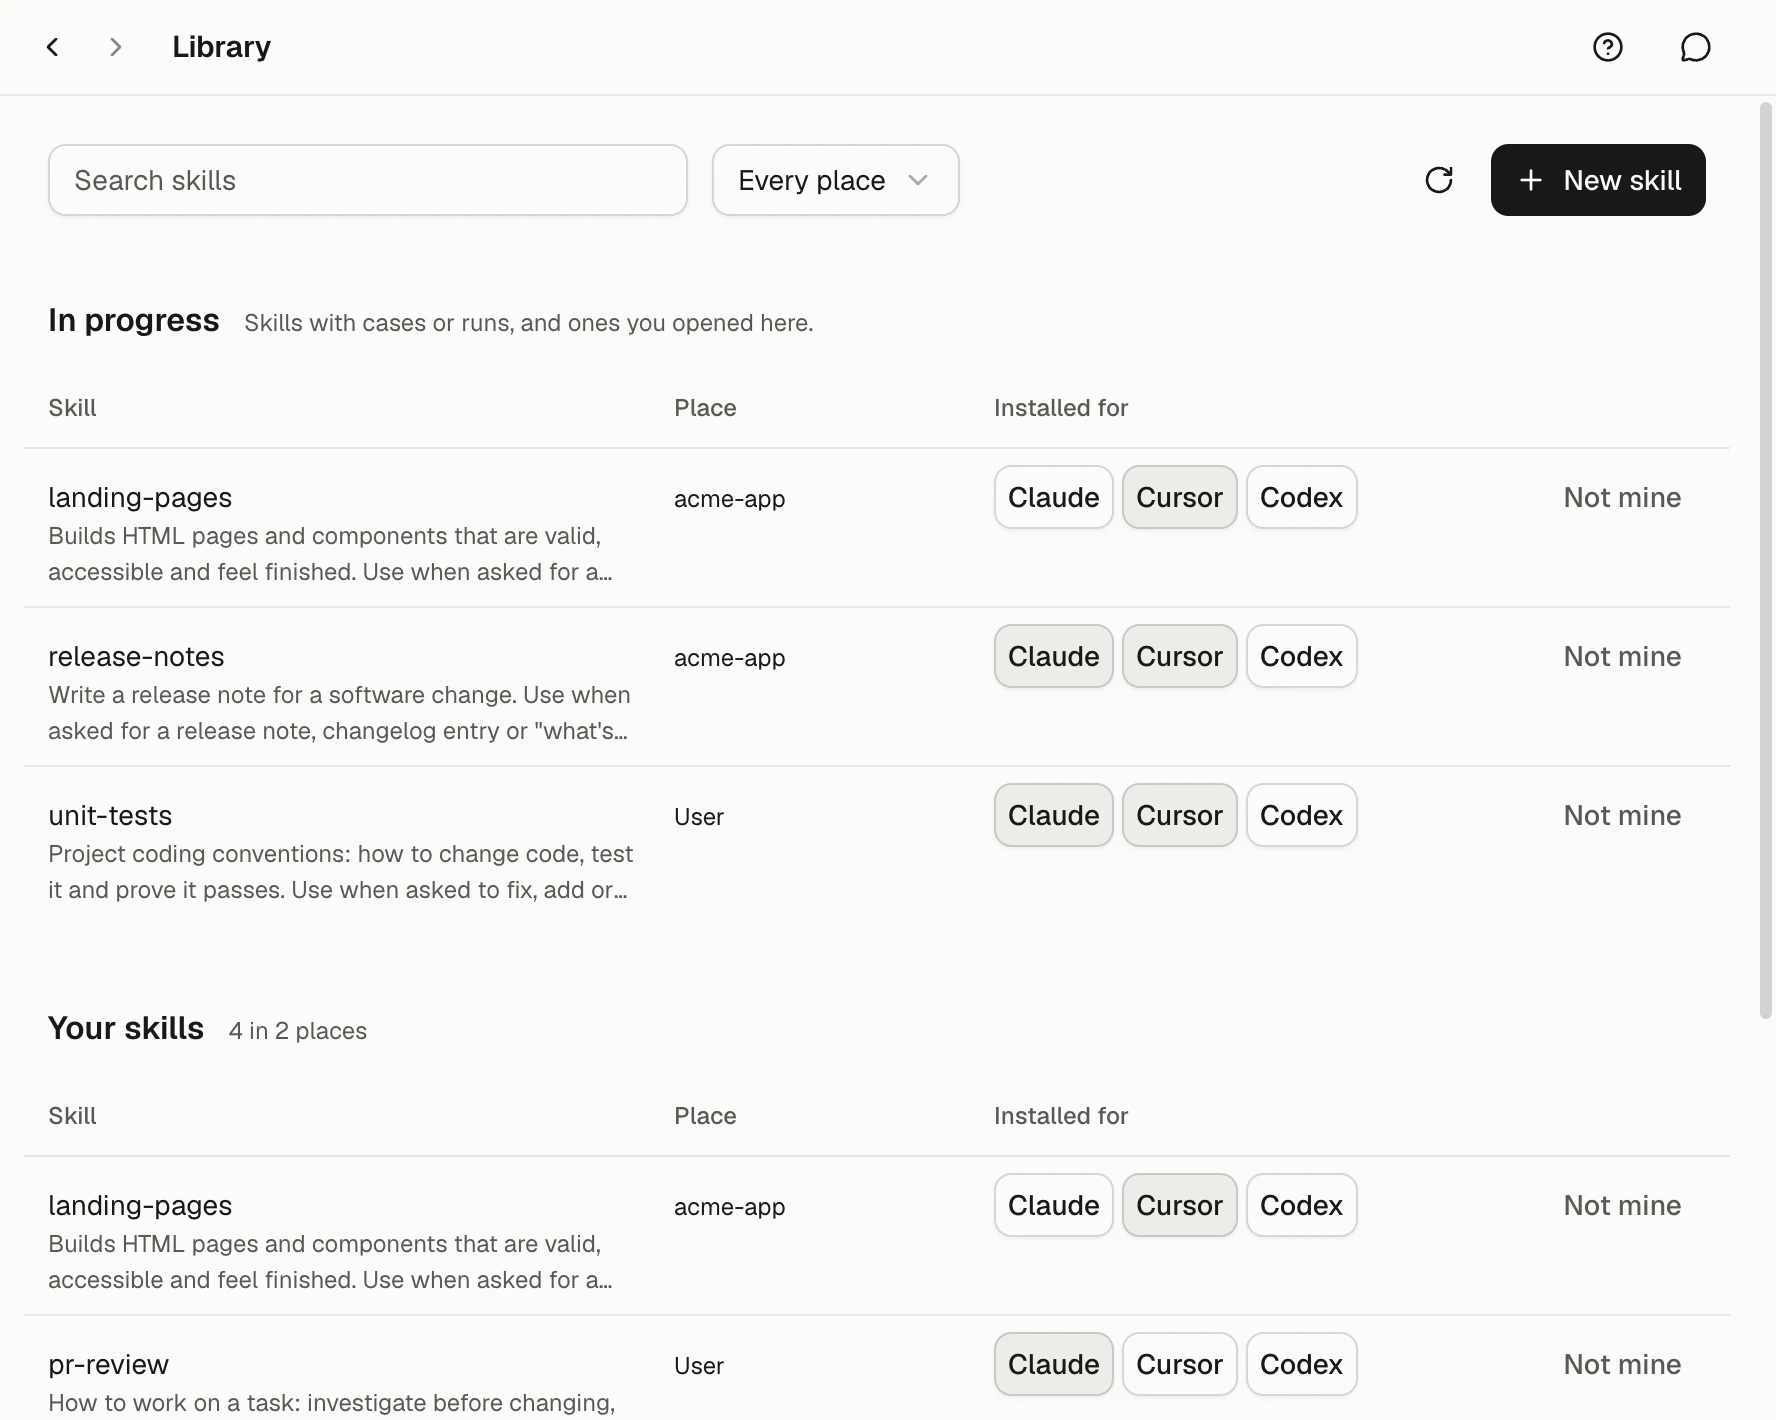
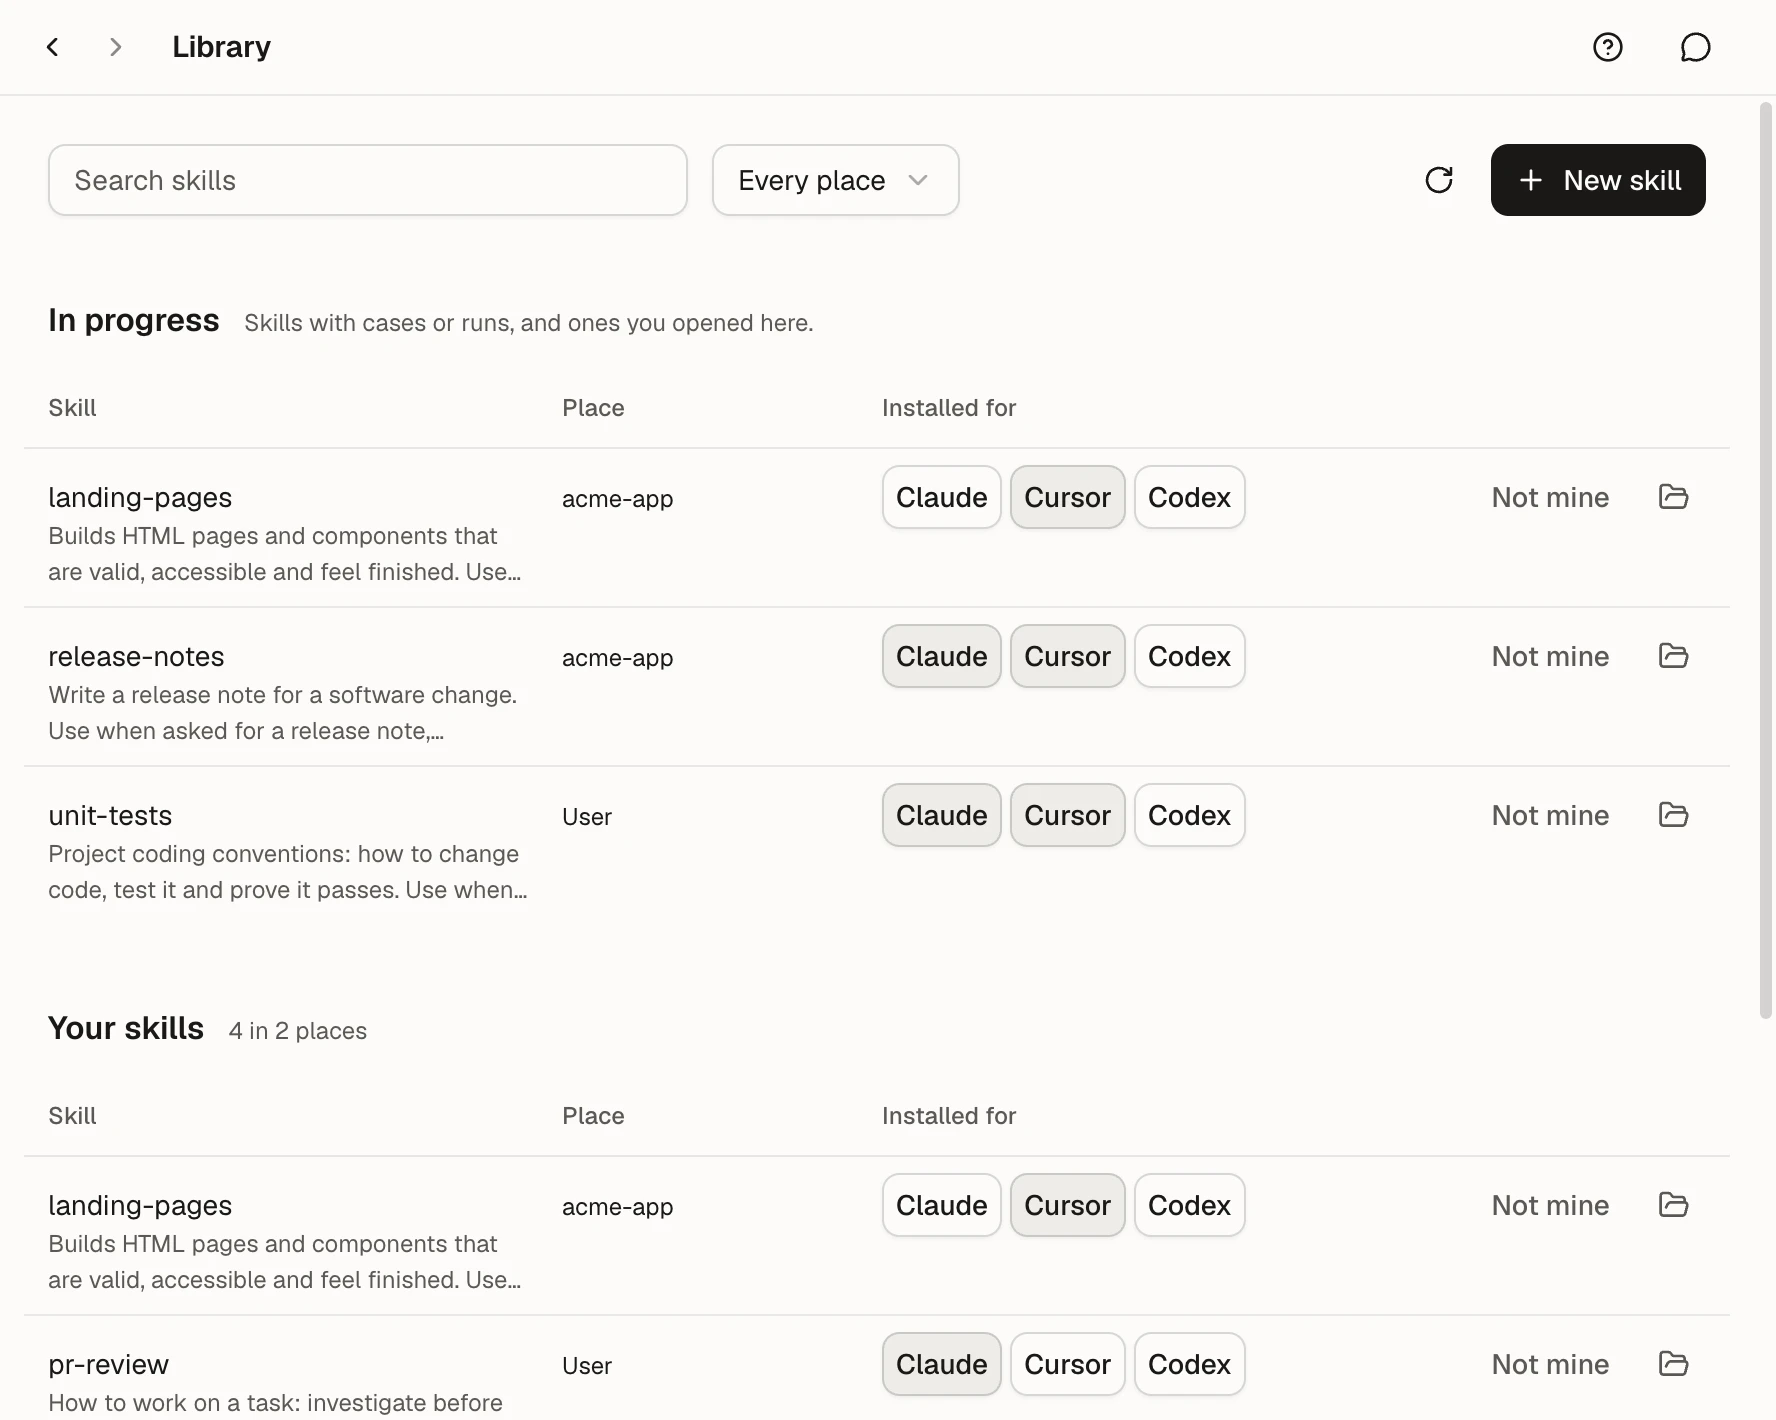
Show a skill's folder in Finder, from the Library and the sidebar
There was no way from the app to the files of a skill on disk: the path
showed only in a tooltip.

- A folder icon ends each skill's row in the Library. For the open skill,
  the same step is the last row of the skill list at the top of the
  sidebar, in a section of its own since the rows above lead elsewhere.
- The control is named as the reader's OS names it (REVEAL_LABEL in
  keys.ts): Reveal in Finder, Show in File Explorer, Open containing
  folder.
- The bridge takes `revealSkill(path)`. The main process answers it and
  refuses a path that is not absolute or holds no SKILL.md, so the page
  can show a skill's folder and nothing else. A browser (`st serve`) has
  no file manager to reach, so the transport leaves it undefined and both
  controls are hidden.
- The Library's last column is `lg`, to hold "Not mine" and the icon.
- Toolbar takes `line`: a zero-width character ahead of its content (the
  `strut` utility in styles.css). An icon has no baseline of its own, so
  a row with only the icon sat 3px off the rows around it.

The guide, its Library picture and the changelog follow.

diff --git a/src/renderer/screens/Library.tsx b/src/renderer/screens/Library.tsx
@@ -12,7 +12,7 @@ import {
 import { rulesFromSkill } from '@domain/rules.ts'
 import { TEMPLATES, type TemplateId, templateById } from '@domain/templates.ts'
 import { isSlug, SLUG_RULE } from '@domain/text.ts'
-import { PlusIcon } from 'lucide-react'
+import { FolderOpenIcon, PlusIcon } from 'lucide-react'
 import { useEffect, useMemo, useState } from 'react'
 import { api } from '../api.ts'
 import type { Confirm } from '../components/confirm.tsx'
@@ -53,6 +53,7 @@ import {
 } from '../components/ui/table.tsx'
 import { Toggle } from '../components/ui/toggle.tsx'
 import { useFetch } from '../hooks.ts'
+import { REVEAL_LABEL } from '../keys.ts'
 import { plural, shortDate } from '../model.ts'
 import { useStartPractice } from '../practice.ts'
 
@@ -63,6 +64,8 @@ interface Props {
   newName: string
   setCreating: (on: boolean) => void
   openSkill: (path: string, screen?: string) => void
+  /** Show a skill's folder in the file manager. Undefined in a browser, which cannot reach one. */
+  reveal?: (path: string) => void
   toast: (message: string) => void
   confirm: Confirm
 }
@@ -89,6 +92,7 @@ export function LibraryScreen({
   newName,
   setCreating,
   openSkill,
+  reveal,
   toast,
   confirm,
 }: Props) {
@@ -235,7 +239,13 @@ export function LibraryScreen({
             <Heading level={2}>In progress</Heading>
             <Hint>Skills with cases or runs, and ones you opened here.</Hint>
           </SectionHead>
-          <SkillTable skills={working} openSkill={openSkill} act={act} confirm={confirm} />
+          <SkillTable
+            skills={working}
+            openSkill={openSkill}
+            reveal={reveal}
+            act={act}
+            confirm={confirm}
+          />
         </Section>
       ) : null}
 
@@ -252,7 +262,13 @@ export function LibraryScreen({
           </SectionHead>
         ) : null}
         {listed.length ? (
-          <SkillTable skills={listed} openSkill={openSkill} act={act} confirm={confirm} />
+          <SkillTable
+            skills={listed}
+            openSkill={openSkill}
+            reveal={reveal}
+            act={act}
+            confirm={confirm}
+          />
         ) : filtering ? (
           <EmptyState size="compact" title="No matches">
             Try another word, or every place.
@@ -317,11 +333,13 @@ const INSTALL_TITLE = {
 function SkillTable({
   skills,
   openSkill,
+  reveal,
   act,
   confirm,
 }: {
   skills: LibrarySkill[]
   openSkill: Props['openSkill']
+  reveal: Props['reveal']
   act: Act
   confirm: Confirm
 }) {
@@ -351,7 +369,7 @@ function SkillTable({
           <TableHead numeric col="xs" fold="last">
             Edited
           </TableHead>
-          <TableHead numeric col="sm" fold="first">
+          <TableHead numeric col={reveal ? 'lg' : 'sm'} fold="first">
             <VisuallyHidden>Actions</VisuallyHidden>
           </TableHead>
         </TableRow>
@@ -437,26 +455,40 @@ function SkillTable({
               </Text>
             </TableCell>
             <TableCell numeric fold="first">
-              {isPractice(s) ? null : s.source === null || s.source === 'marked' ? (
-                <Button
-                  type="button"
-                  variant="ghost-muted"
-                  size="sm"
-                  title={
-                    s.source
-                      ? 'List it with your own skills again'
-                      : 'List it with the skills installed from elsewhere'
-                  }
-                  onClick={() =>
-                    act(
-                      api.mark(s.path, !s.source),
-                      s.source ? 'Listed with your skills' : 'Listed with installed skills',
-                    )
-                  }
-                >
-                  {s.source ? 'Mine' : 'Not mine'}
-                </Button>
-              ) : null}
+              <Toolbar gap="xs" justify="end" wrap={false} line>
+                {isPractice(s) || (s.source !== null && s.source !== 'marked') ? null : (
+                  <Button
+                    type="button"
+                    variant="ghost-muted"
+                    size="sm"
+                    title={
+                      s.source
+                        ? 'List it with your own skills again'
+                        : 'List it with the skills installed from elsewhere'
+                    }
+                    onClick={() =>
+                      act(
+                        api.mark(s.path, !s.source),
+                        s.source ? 'Listed with your skills' : 'Listed with installed skills',
+                      )
+                    }
+                  >
+                    {s.source ? 'Mine' : 'Not mine'}
+                  </Button>
+                )}
+                {reveal ? (
+                  <Button
+                    type="button"
+                    variant="ghost-muted"
+                    size="icon-sm"
+                    aria-label={`${REVEAL_LABEL}: ${s.name}`}
+                    title={REVEAL_LABEL}
+                    onClick={() => reveal(s.path)}
+                  >
+                    <FolderOpenIcon aria-hidden="true" />
+                  </Button>
+                ) : null}
+              </Toolbar>
             </TableCell>
           </TableRow>
         ))}

diff --git a/src/renderer/components/SkillSwitcher.tsx b/src/renderer/components/SkillSwitcher.tsx
@@ -6,10 +6,10 @@
  */
 import type { LibrarySkill } from '@domain/library.ts'
 import { slug } from '@domain/text.ts'
-import { ChevronsUpDownIcon, LibraryIcon, PlusIcon } from 'lucide-react'
+import { ChevronsUpDownIcon, FolderOpenIcon, LibraryIcon, PlusIcon } from 'lucide-react'
 import { type KeyboardEvent, useEffect, useMemo, useRef, useState } from 'react'
 import { api } from '../api.ts'
-import { shortcut } from '../keys.ts'
+import { REVEAL_LABEL, shortcut } from '../keys.ts'
 import { plural } from '../model.ts'
 import { Text } from './text.tsx'
 import { Input } from './ui/input.tsx'
@@ -55,6 +55,7 @@ export function SkillSwitcher({
   onOpen,
   onNew,
   onLibrary,
+  onReveal,
 }: {
   /** The open skill's name; null when none is open. */
   name: string | null
@@ -64,6 +65,8 @@ export function SkillSwitcher({
   /** Start a new skill, named after the search when there is one. */
   onNew: (name: string) => void
   onLibrary: () => void
+  /** Show the open skill's folder in the file manager. Undefined with no skill open, and in a browser. */
+  onReveal?: () => void
 }) {
   const [open, setOpen] = useState(false)
   const [query, setQuery] = useState('')
@@ -236,6 +239,21 @@ export function SkillSwitcher({
             All skills in the library
           </PopoverAction>
         </PopoverSection>
+        {/* About the open skill, so apart from the rows that lead to another. */}
+        {onReveal && name ? (
+          <PopoverSection>
+            <PopoverAction
+              icon={<FolderOpenIcon aria-hidden="true" />}
+              title={`${REVEAL_LABEL}: ${name}`}
+              onClick={() => {
+                setOpen(false)
+                onReveal()
+              }}
+            >
+              {REVEAL_LABEL}
+            </PopoverAction>
+          </PopoverSection>
+        ) : null}
       </PopoverContent>
     </Popover>
   )

diff --git a/src/renderer/App.tsx b/src/renderer/App.tsx
@@ -153,6 +153,11 @@ export function App() {
   /** The welcome is shown in this page: the host has no window of its own to give it. */
   const inline = !api.openWelcome
   const openWelcome = () => (api.openWelcome ? api.openWelcome() : go('welcome'))
+  /** Show a skill's folder in the file manager; undefined where the host has none to show it in. */
+  const revealSkill = api.revealSkill
+  const reveal = revealSkill
+    ? (path: string) => void revealSkill(path).catch((e: Error) => toast(e.message))
+    : undefined
   // Back and Forward return to the skill a place was seen in. An entry made with
   // no skill open keeps the one in hand.
   useEffect(() => {
@@ -303,6 +308,7 @@ export function App() {
         onOpen={(path) => openSkill(path)}
         onNew={(name) => go('library', name ? { new: '1', name } : { new: '1' })}
         onLibrary={() => go('library')}
+        onReveal={skillPath && reveal ? () => reveal(skillPath) : undefined}
       />
       <SidebarBody>
         {skillPath
@@ -387,6 +393,7 @@ export function App() {
           // Leaving the form takes its place in the history: Back never reopens it.
           setCreating={(on) => go('library', on ? { new: '1' } : {}, { replace: !on })}
           openSkill={openSkill}
+          reveal={reveal}
           toast={toast}
           confirm={confirm}
         />

diff --git a/src/interfaces/electron/main/ipc.ts b/src/interfaces/electron/main/ipc.ts
@@ -3,6 +3,7 @@
  * sending frame's origin first: only the app's own top frame may call.
  */
 
+import { isAbsolute, join } from 'node:path'
 import type { Reply, ShellOperation } from '@application/api/contract.ts'
 import {
   isOperation,
@@ -14,6 +15,7 @@ import {
 import { preferencesOf } from '@domain/preferences.ts'
 import type { Settings } from '@domain/secrets.ts'
 import { isUpdateRequest, type UpdateRequest } from '@domain/update.ts'
+import { isFile } from '@infrastructure/fs.ts'
 import { BrowserWindow, type IpcMainInvokeEvent, ipcMain, shell } from 'electron'
 import { CHANNELS } from '../channels.ts'
 import type { Backend } from './backend.ts'
@@ -137,5 +139,14 @@ export function registerIpc({ backend, secrets, windows, updater, reset, trusted
     } catch (error) {
       return fail(error)
     }
+  })
+
+  ipcMain.handle(CHANNELS.revealSkill, (event, path: unknown) => {
+    if (!isTrusted(event, trusted)) return fail(new Error('Refused: unknown sender.'))
+    // The page names the folder, so it is checked here: only a skill's folder is shown.
+    if (typeof path !== 'string' || !isAbsolute(path) || !isFile(join(path, 'SKILL.md')))
+      return fail(new Error(`No skill at ${String(path)}.`))
+    shell.showItemInFolder(path)
+    return ok(null)
   })
 }

diff --git a/src/renderer/transport.ts b/src/renderer/transport.ts
@@ -45,6 +45,8 @@ export interface Transport {
   openArtifact(url: string): void
   /** Follow an outside link. */
   openExternal(url: string): void
+  /** Show a skill's folder in the file manager. Undefined in a browser, which cannot reach one. */
+  revealSkill?: (path: string) => Promise<void>
   /** Push job changes when the transport has them; otherwise undefined and the shell polls. */
   watchJobs?: (listener: (jobs: Job[]) => void) => () => void
   /** Push assistant replies as they grow; otherwise undefined and the page polls a running one. */
@@ -82,6 +84,7 @@ function desktop(bridge: StudioBridge): Transport {
     imageUrl: (input) => `artifact://image?${encode(input)}`,
     openArtifact: (url) => void bridge.openArtifact(url).then(unwrap),
     openExternal: (url) => void bridge.openExternal(url).then(unwrap),
+    revealSkill: async (path) => void unwrap(await bridge.revealSkill(path)),
     watchJobs: (listener) => bridge.onJobs(listener),
     watchAi: (listener) => bridge.onAi(listener),
     watchGo: (listener) => bridge.onGo(listener),

diff --git a/src/renderer/components/layout.tsx b/src/renderer/components/layout.tsx
@@ -427,8 +427,16 @@ const toolbarVariants = cva('flex items-center', {
       true: 'min-w-0 flex-1',
       false: '',
     },
+    /**
+     * In a row set on its first line, such as a table row: keeps a button's
+     * text baseline even when the toolbar holds only an icon, which has none.
+     */
+    line: {
+      true: 'strut before:text-sm',
+      false: '',
+    },
   },
-  defaultVariants: { gap: 'sm', justify: 'start', wrap: true, grow: false },
+  defaultVariants: { gap: 'sm', justify: 'start', wrap: true, grow: false, line: false },
 })
 
 /** Controls in a row: a toolbar, or the actions under a form. */
@@ -437,10 +445,16 @@ export function Toolbar({
   justify,
   wrap,
   grow,
+  line,
   className,
   ...props
 }: ComponentProps<'div'> & VariantProps<typeof toolbarVariants>) {
-  return <div className={cn(toolbarVariants({ gap, justify, wrap, grow }), className)} {...props} />
+  return (
+    <div
+      className={cn(toolbarVariants({ gap, justify, wrap, grow, line }), className)}
+      {...props}
+    />
+  )
 }
 
 /**

diff --git a/src/renderer/keys.ts b/src/renderer/keys.ts
@@ -1,7 +1,15 @@
-/** Shortcut labels for the reader's OS: ⌘ on a Mac, Ctrl elsewhere. The handlers accept both. */
+/** Words that change with the reader's OS: ⌘ on a Mac and Ctrl elsewhere (the handlers accept both), and what each calls its file manager. */
 import { api } from './api.ts'
 
 const isMac = api.platform === 'darwin' || /Mac|iPhone|iPad/.test(navigator.userAgent)
 
 /** `shortcut('K')` reads ⌘K on a Mac and Ctrl+K elsewhere. */
 export const shortcut = (key: string): string => (isMac ? `⌘${key}` : `Ctrl+${key}`)
+
+/** The control that shows a folder where it is kept, in the words the reader's OS uses for it. */
+export const REVEAL_LABEL =
+  api.platform === 'darwin'
+    ? 'Reveal in Finder'
+    : api.platform === 'win32'
+      ? 'Show in File Explorer'
+      : 'Open containing folder'

diff --git a/src/application/api/contract.ts b/src/application/api/contract.ts
@@ -230,6 +230,8 @@ export interface StudioBridge {
   openArtifact(url: string): Promise<Reply<null>>
   /** Open an https link in the default browser. */
   openExternal(url: string): Promise<Reply<null>>
+  /** Show a skill's folder in the file manager: Finder, File Explorer or the desktop's own. */
+  revealSkill(path: string): Promise<Reply<null>>
   /** Ask where the app's own updates stand, or for their next step; answered with the state after. */
   update(request: UpdateRequest): Promise<Reply<UpdateState>>
   /** The update state after every change to it; returns the unsubscribe. */

diff --git a/src/renderer/styles.css b/src/renderer/styles.css
@@ -359,6 +359,19 @@
 }
 
 /*
+ * A zero-width character ahead of a row's content. An icon has no baseline of
+ * its own, so a row that may hold nothing else takes its baseline from this.
+ * Set through Tailwind's own variable, so a `before:` class beside it (the
+ * strut's type size) keeps the character.
+ */
+@utility strut {
+  &::before {
+    --tw-content: "\200b";
+    content: var(--tw-content);
+  }
+}
+
+/*
  * Rendered documents. Their HTML comes from markdown.ts and diff.ts, so these
  * elements take their styles from here rather than from a component.
  */

diff --git a/src/renderer/api.ts b/src/renderer/api.ts
@@ -104,6 +104,8 @@ export const api = {
   openArtifact: (run: string, sample: string, file: string) =>
     transport.openArtifact(artifactUrl(run, sample, file)),
   openExternal: transport.openExternal,
+  /** Show a skill's folder in the file manager; undefined in a browser. */
+  revealSkill: transport.revealSkill,
   artifactText: async (run: string, sample: string, file: string): Promise<string> => {
     const { bytes } = await call('skill.artifact', scoped({ run, sample, file }))
     return new TextDecoder().decode(bytes)

diff --git a/src/interfaces/electron/preload/index.ts b/src/interfaces/electron/preload/index.ts
@@ -38,6 +38,7 @@ const bridge: StudioBridge = {
   enterApp: (skill) => ipcRenderer.invoke(CHANNELS.enterApp, skill),
   openArtifact: (url) => ipcRenderer.invoke(CHANNELS.openArtifact, url),
   openExternal: (url) => ipcRenderer.invoke(CHANNELS.openExternal, url),
+  revealSkill: (path) => ipcRenderer.invoke(CHANNELS.revealSkill, path),
   update: (request) => ipcRenderer.invoke(CHANNELS.update, request),
   onUpdate: subscribe<UpdateState>(CHANNELS.updateState),
   openChangelog: () => ipcRenderer.invoke(CHANNELS.openChangelog),

diff --git a/src/interfaces/electron/channels.ts b/src/interfaces/electron/channels.ts
@@ -16,6 +16,8 @@ export const CHANNELS = {
   enterApp: 'studio:enter-app',
   openArtifact: 'studio:open-artifact',
   openExternal: 'studio:open-external',
+  /** A window asks for a skill's folder in the file manager. */
+  revealSkill: 'studio:reveal-skill',
   /** A window asks the updater for its state or its next step. */
   update: 'studio:update',
   /** The updater tells every window its state. */
